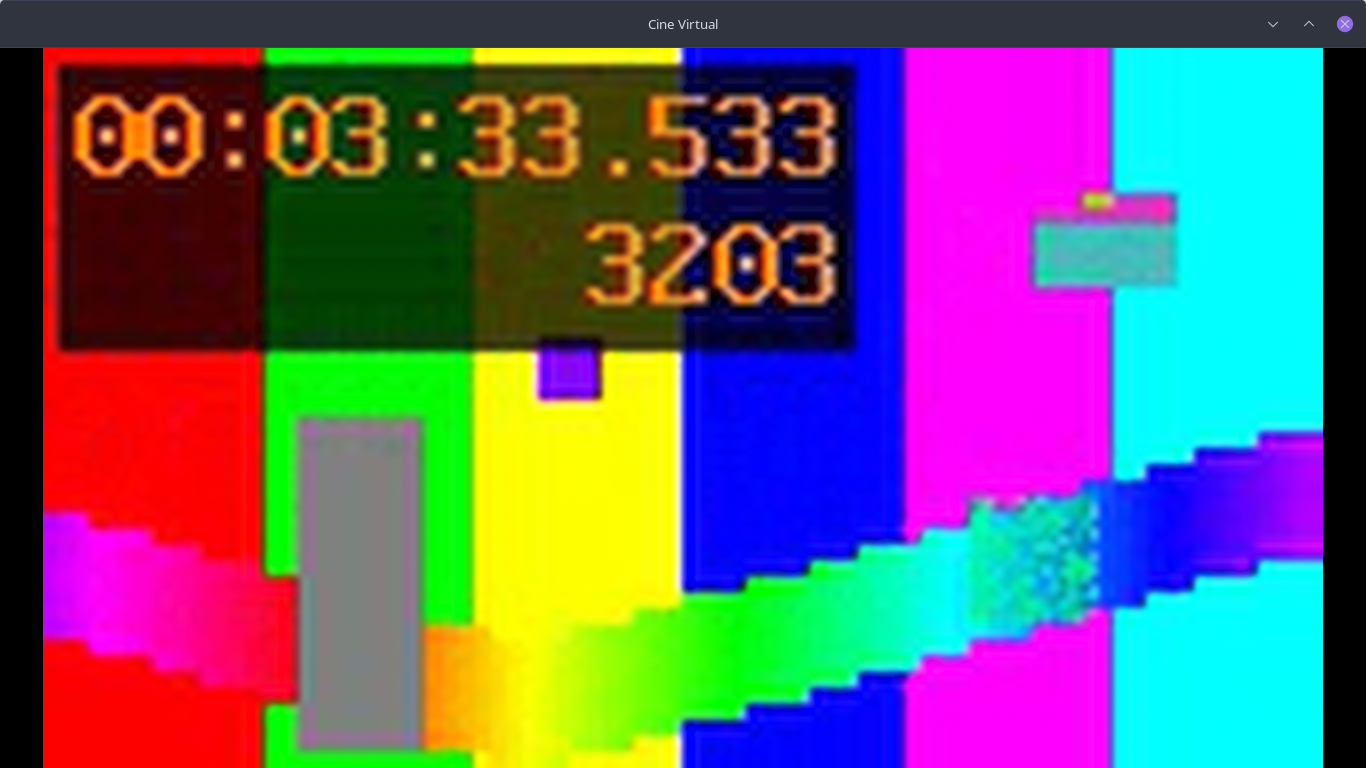
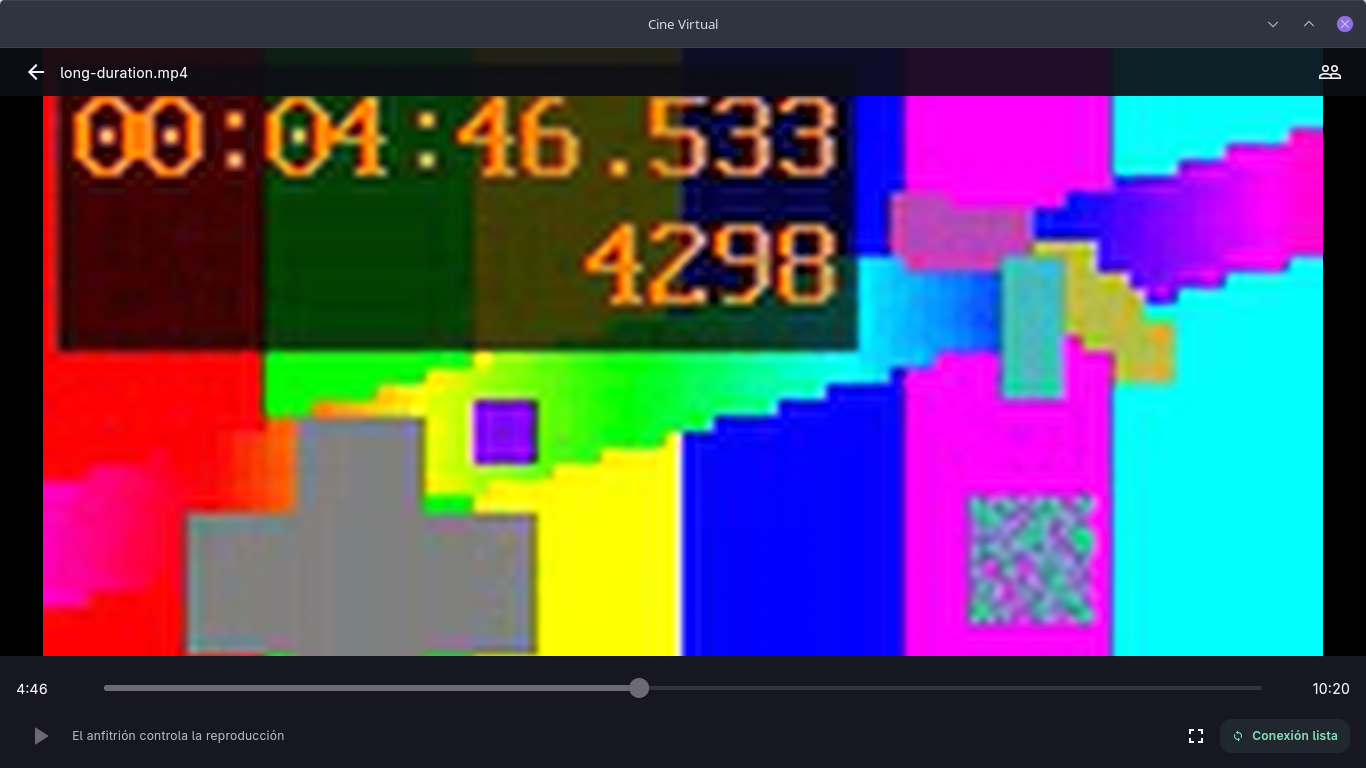
ui: fade Linux player overlays without changing video lifecycle

diff --git a/experiments/02-rust-ui-bridge/app/lib/ui/screens/player_screen.dart b/experiments/02-rust-ui-bridge/app/lib/ui/screens/player_screen.dart
@@ -159,6 +159,17 @@ class _PlayerScreenState extends State<PlayerScreen> {
       },
     ),
   );
+  // Fade presentation only; hidden controls stop receiving input immediately.
+  Widget overlay(Widget child) => IgnorePointer(
+    ignoring: !visible,
+    child: ExcludeSemantics(
+      excluding: !visible,
+      child: AnimatedSwitcher(
+        duration: CineTokens.motion,
+        child: visible ? child : const SizedBox.shrink(),
+      ),
+    ),
+  );
   Widget video() {
     final controller = widget.controller;
     return ColoredBox(
@@ -264,20 +275,18 @@ class _PlayerScreenState extends State<PlayerScreen> {
                         fit: StackFit.expand,
                         children: [
                           surface,
-                          if (visible)
-                            Positioned(
-                              top: 0,
-                              left: 0,
-                              right: 0,
-                              child: header(desktop),
-                            ),
-                          if (visible)
-                            Positioned(
-                              bottom: 0,
-                              left: 0,
-                              right: 0,
-                              child: controls(),
-                            ),
+                          Positioned(
+                            top: 0,
+                            left: 0,
+                            right: 0,
+                            child: overlay(header(desktop)),
+                          ),
+                          Positioned(
+                            bottom: 0,
+                            left: 0,
+                            right: 0,
+                            child: overlay(controls()),
+                          ),
                         ],
                       )
                     : Column(

diff --git a/experiments/10-player-integration/screenshots/README.md b/experiments/10-player-integration/screenshots/README.md
@@ -10,7 +10,8 @@ en modo ventana. Wayland probado en KWin 6.7.5; un monitor físico 1366×768.
 | [Linux Host fullscreen](linux-host-fullscreen.png) | 1366×768 | Sin decoración, controles/timeline Flutter sobre vídeo; misma timeline. |
 | [Linux normal 1920](linux-normal-1920.png) | 1920×1080 | Participant y controles visibles. Ventana Wayland sobredimensionada real, monitor físico 1366×768; no imagen escalada ni segundo monitor. |
 | [Linux fullscreen](linux-fullscreen-1366.png) | 1366×768 | Participant, controles visibles, sin chrome nativo. |
-| [Linux normal 1366](linux-normal-1366.png) | 1366×768 | Player con controles ocultos; el nombre indica tamaño, no visibilidad de controles. |
+| [Linux normal 1366](linux-normal-1366.png) | 1366×768 | Player Participant final con controles visibles tras integración de fade; posición 4:46. |
+| [Linux final controles ocultos](linux-final-controls-hidden.png) | 1366×768 | Mismo frame y proporción, controles ocultos tras tap; biblioteca Dart final. |
 | [Linux controles ocultos](linux-controls-hidden.png) | 1366×700 | Vídeo integrado en modo ventana, sin controles encima. |
 | [Linux participantes](linux-participants.png) | 1366×700 | Panel lateral Flutter y vídeo real; puede reducir región de vídeo. |
 | [Linux primer embedding](linux-first-embedded.png) | 1366×700 | Primer frame integrado durante la implementación; evidencia intermedia. |

diff --git a/experiments/10-player-integration/RESULTS.md b/experiments/10-player-integration/RESULTS.md
@@ -181,6 +181,9 @@ Scrub mantiene preview local y solo envía un seek al commit. Mouse/tap restaura
 controles; no se ocultan durante scrub, modal, panel o error. Desktop tiene
 participantes lateral, mobile bottom sheet. Sync usa texto semántico sin drift
 permanente. Shortcuts Host Space/Left/Right y F/Esc; Participant sin autoridad.
+Linux usa fade de 180 ms con input/semántica deshabilitados inmediatamente al
+ocultar. Último smoke físico con biblioteca PlayerScreen final hot reloaded:
+mouse show/tap hide, F/Esc, vídeo y posición 286533 ms conservados, render error 0.
 Text scaling/regresiones responsive **TESTED**; auditoría WCAG completa **NOT TESTED**.
 No capturas de buffering sostenido: **NOT VISUALLY VERIFIED** en esta sesión.
 
